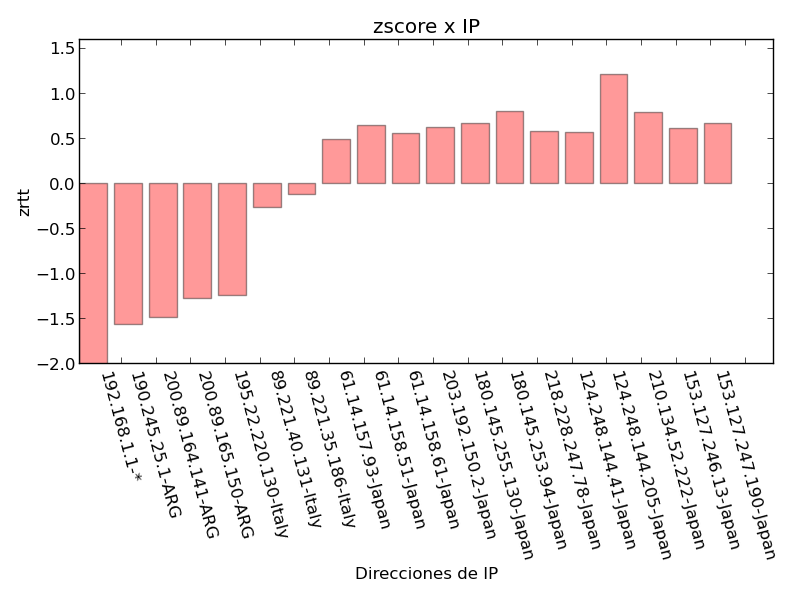
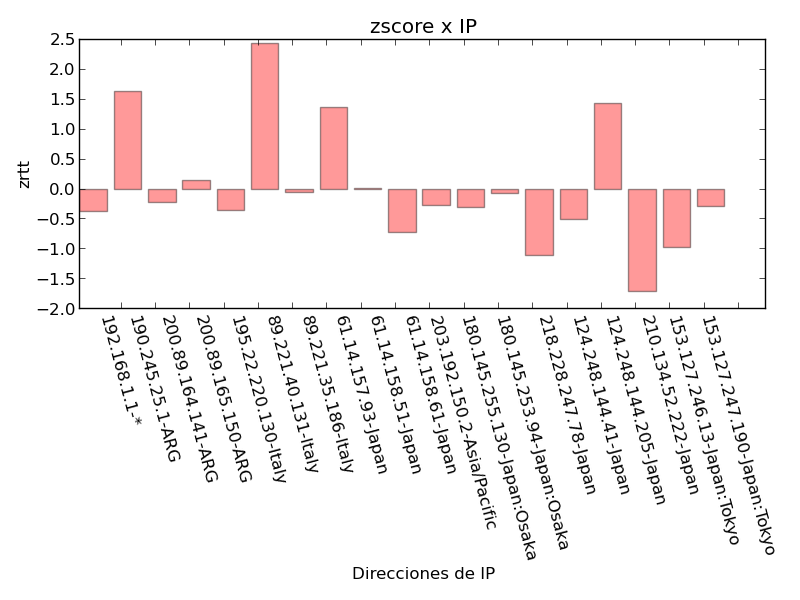
zscores

diff --git a/graficador.py b/graficador.py
@@ -17,7 +17,7 @@ def graficador(ips,rtts):
 	plt.xlabel('Direcciones de IP')
 	plt.ylabel('Rtt relativo')
 
-	plt.ylim([-70,160])
+	plt.ylim([-80,150])
 	plt.title('Rtts relativos x IP')
 	plt.xticks(index+bar_width+0.4, ips)
 	plt.xticks(rotation = -75)

diff --git a/graficador_2.py b/graficador_2.py
@@ -17,7 +17,7 @@ def graficador(ips,zscores):
 	plt.xlabel('Direcciones de IP')
 	plt.ylabel('zrtt')
 
-	plt.ylim([-2,1.6])
+	plt.ylim([-1.8,2])
 	plt.title('zscore x IP')
 	plt.xticks(index+bar_width+0.4, ips)
 	plt.xticks(rotation = -75)
